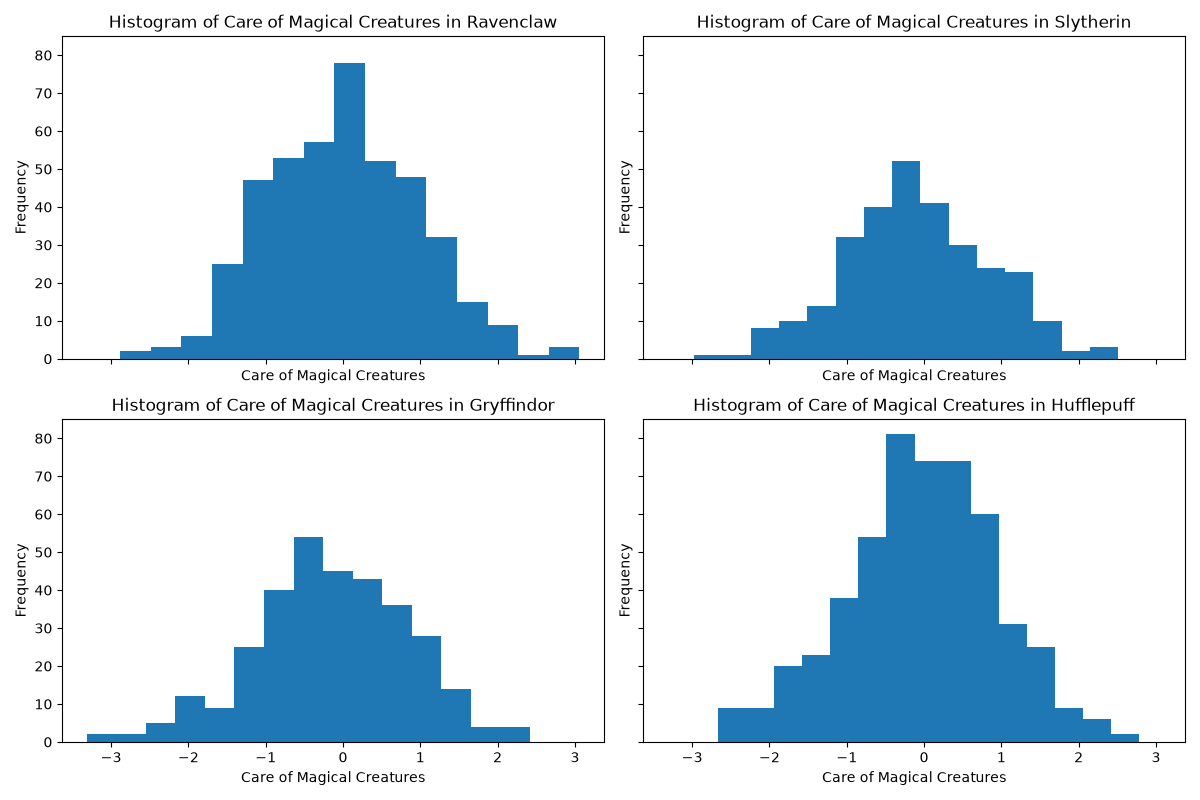
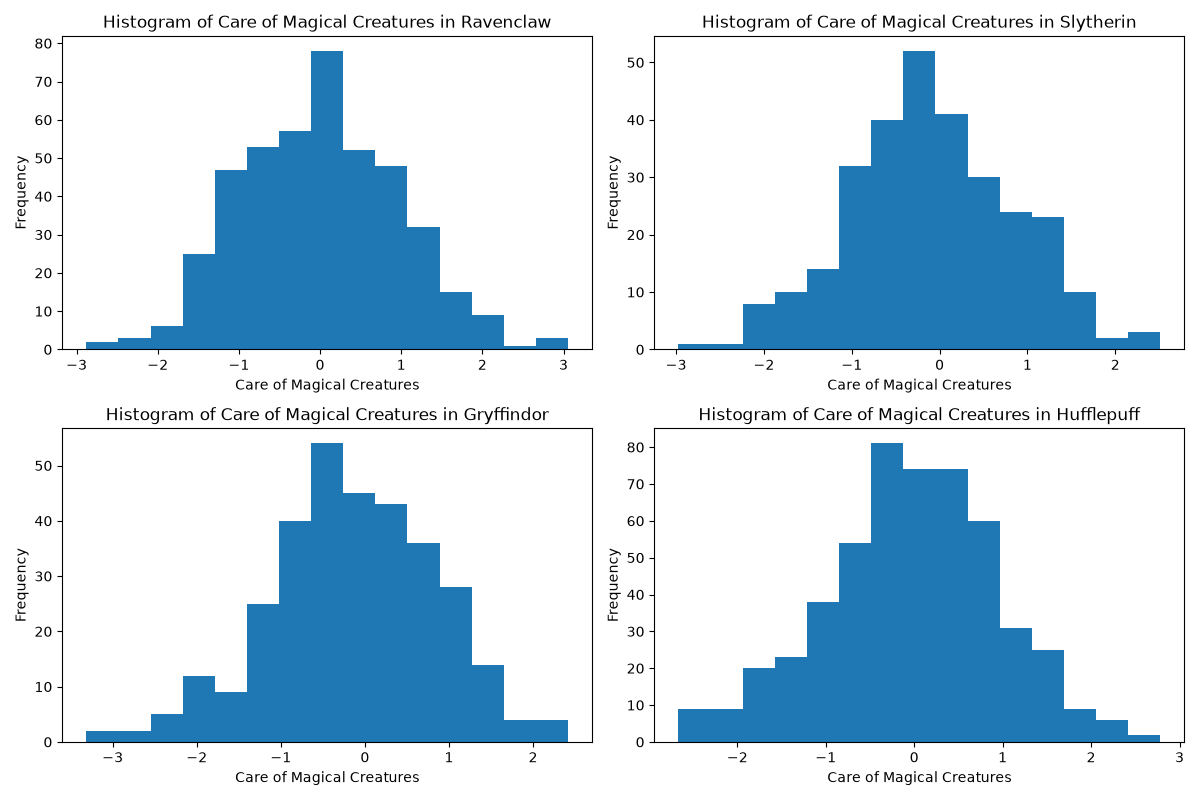
fix affichage histograme

diff --git a/histogram.py b/histogram.py
@@ -6,7 +6,7 @@ import Describe
 def visualisation_histogramme(df, matiere):
     os.makedirs("histograms", exist_ok=True)
     maisons = df["Hogwarts House"].dropna().unique()
-    fig, ax = plt.subplots(2, 2, figsize=(12, 8), sharex=True, sharey=True)
+    fig, ax = plt.subplots(2, 2, figsize=(12, 8))
     for i, maison in enumerate(maisons):
         data = df[df["Hogwarts House"] == maison][matiere].dropna()
         ax[i // 2, i % 2].hist(data, bins=15)
